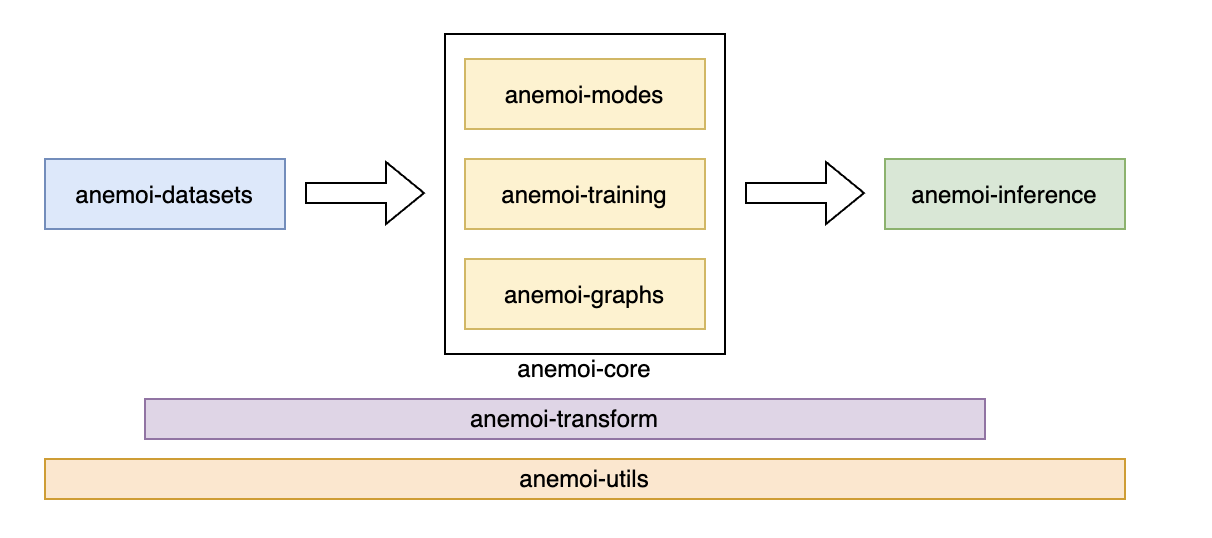
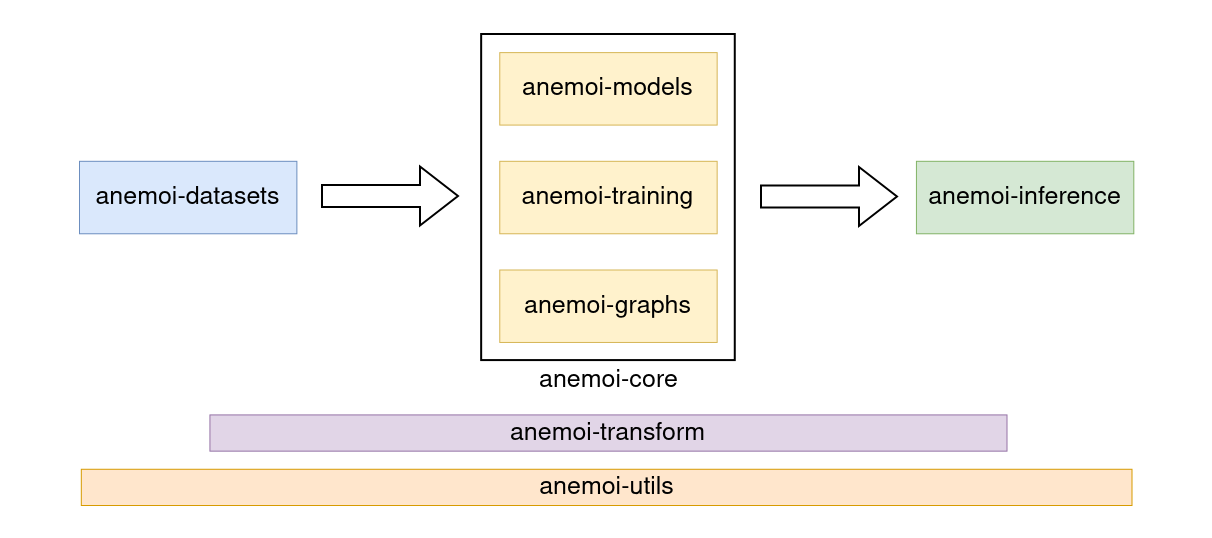
docs: fix typo in README and packages diagram

Changed region(s): [[0.0305, 0.0595, 0.9464, 0.9517]]

diff --git a/README.md b/README.md
@@ -45,7 +45,7 @@ The diagram below represents the main packages in the Anemoi framework and the g
 Summary of workflow:
 - Start by building a dataset with `anemoi-datasets`.
 - Train a model using `anemoi-core` (central yellow boxes inside a black rectangle): This repository groups three distinct but related packages to support model development:
-    - `anemoi-modes`: Contains definitions for different machine learning models.
+    - `anemoi-models`: Contains definitions for different machine learning models.
     - `anemoi-training`: Provides the training framework and utilities for fitting models on prepared datasets.
     - `anemoi-graphs`: Supports graph-based representations for modeling meteorological data.
 These three packages are separated to make development easier, but they all live under the [anemoi-core GitHub repository](https://github.com/ecmwf/anemoi-core).
